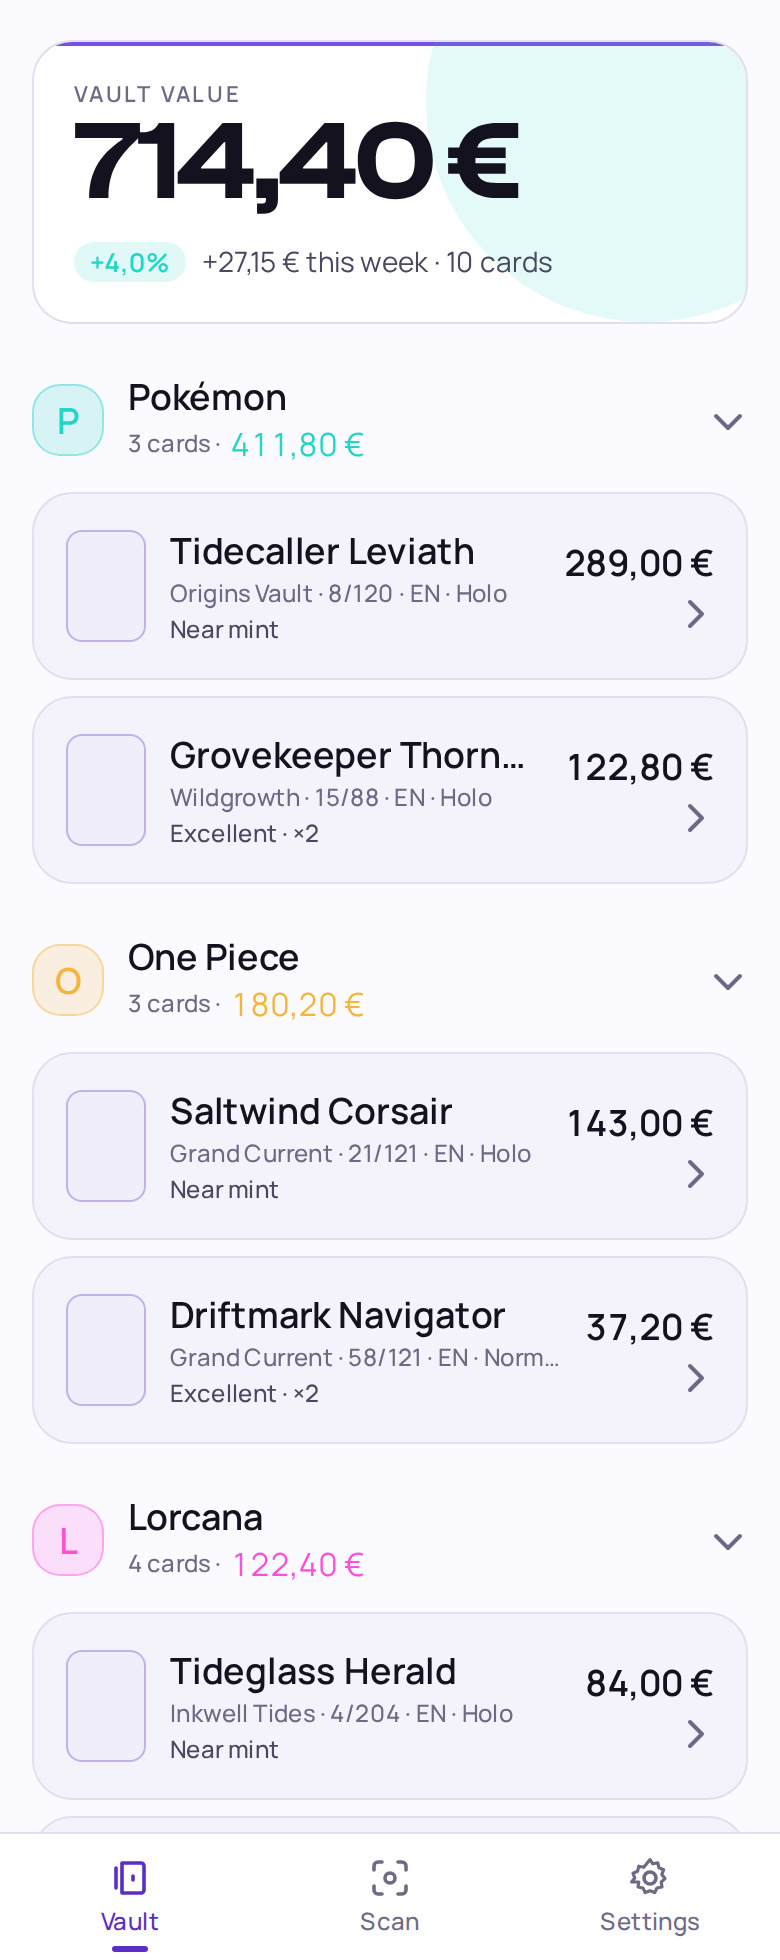
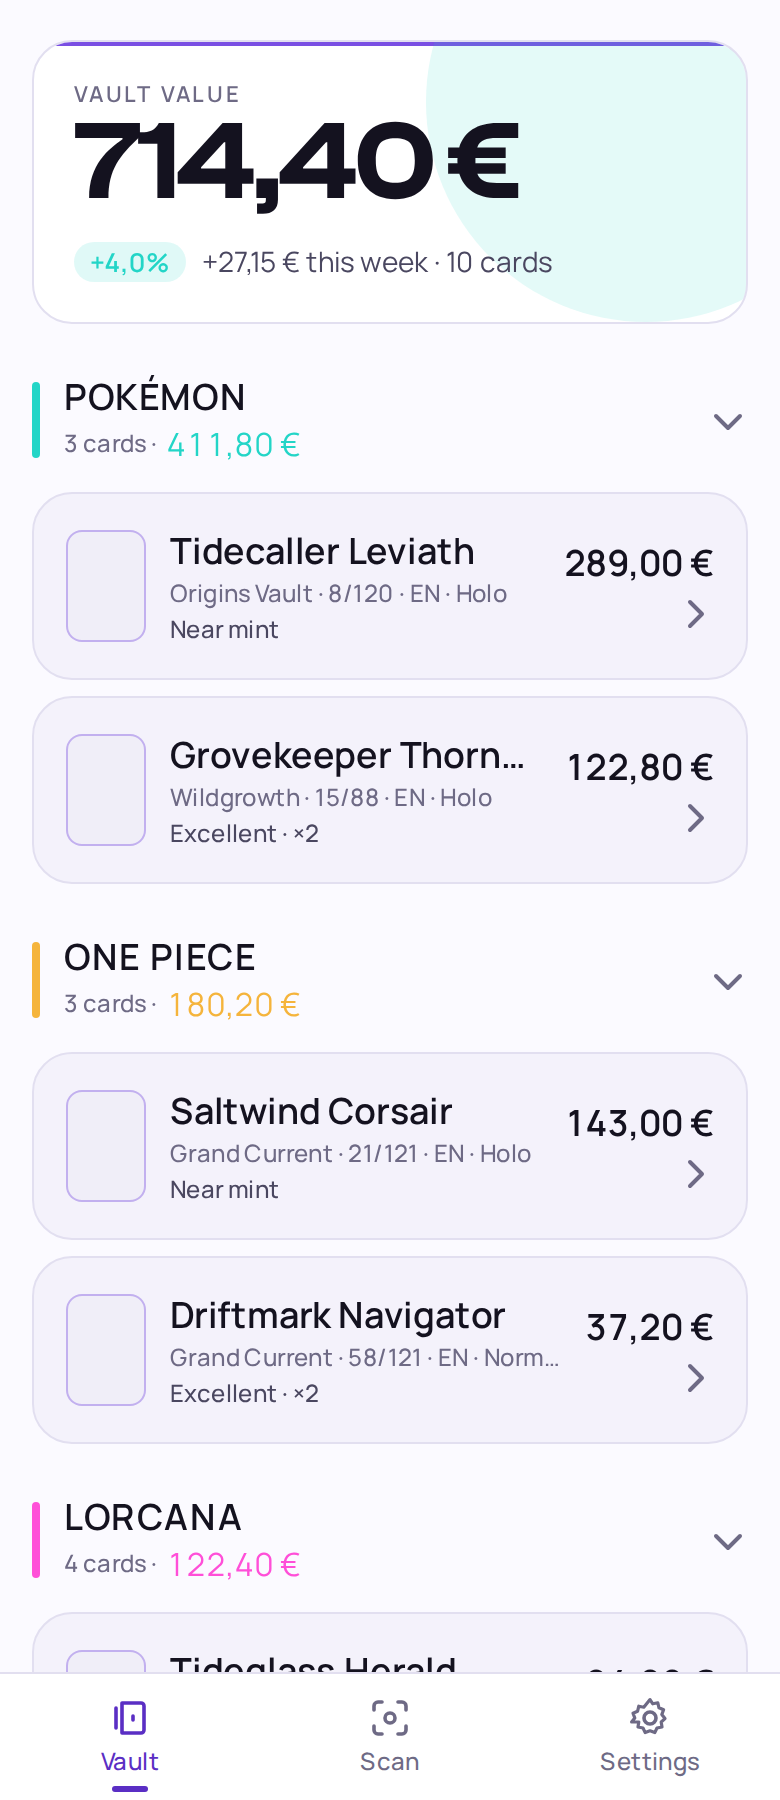
Vault game headers: drop letter glyphs for a slim accent rail + uppercase titles
Founder feedback: the P/O/L letter badges read like cheap fallback avatars (and we can't use
official game logos). Replaced with a slim rounded accent-colour rail per game — keeps the
colour identity for quick scanning, no fake letters, no logos. Also uppercased the category
title (textTransform, proper-case kept for screen readers) so a game header is clearly
distinct from the title-case card names below it. Verified light + dark, 0 errors. tsc 0, 156 tests.

diff --git a/apps/mobile/src/screens/vault/GameGlyph.tsx b/apps/mobile/src/screens/vault/GameGlyph.tsx
@@ -1,50 +1,31 @@
 import { StyleSheet, View } from "react-native";
 
-import { Text } from "@/components";
 import type { GameDisplay } from "@/api";
 import { useTheme } from "@/theme";
-import { withAlpha } from "@/theme/color";
 
 type Props = {
   game: GameDisplay;
-  size?: number;
 };
 
-// A game's section mark: a rounded chip in the game's brand accent carrying its initial.
-// Deliberately generic — an original tint-and-letter badge, never the game's official
-// logo. The accent is a theme brand-color *key*, so the chip resolves against the active
-// scheme and reads in both light and dark. Decorative: the game name beside it carries
-// the meaning for a screen reader.
-export function GameGlyph({ game, size = 36 }: Props) {
+// A game section's mark: a slim rounded rail in the game's accent colour — a clean colour
+// tag that identifies the game at a glance, without a fake letter avatar or the game's
+// (IP-protected) logo. Decorative; the game name beside it carries the meaning for a
+// screen reader.
+export function GameGlyph({ game }: Props) {
   const theme = useTheme();
-  const accent = theme.color[game.accent];
-
   return (
     <View
       accessibilityElementsHidden
       importantForAccessibility="no"
-      style={[
-        styles.chip,
-        {
-          width: size,
-          height: size,
-          borderRadius: theme.radius.md,
-          backgroundColor: withAlpha(accent, 0.16),
-          borderColor: withAlpha(accent, 0.4),
-        },
-      ]}
-    >
-      <Text variant="titleMd" style={{ color: accent }}>
-        {game.initial}
-      </Text>
-    </View>
+      style={[styles.rail, { backgroundColor: theme.color[game.accent] }]}
+    />
   );
 }
 
 const styles = StyleSheet.create({
-  chip: {
-    alignItems: "center",
-    justifyContent: "center",
-    borderWidth: StyleSheet.hairlineWidth,
+  rail: {
+    width: 4,
+    height: 38,
+    borderRadius: 2,
   },
 });

diff --git a/apps/mobile/src/screens/vault/GameSection.tsx b/apps/mobile/src/screens/vault/GameSection.tsx
@@ -89,7 +89,12 @@ export function GameSection({ group, children }: Props) {
       >
         <GameGlyph game={game} />
         <View style={styles.headerText}>
-          <Text variant="titleMd" tone="primary" numberOfLines={1}>
+          <Text
+            variant="titleMd"
+            tone="primary"
+            numberOfLines={1}
+            style={{ textTransform: "uppercase", letterSpacing: 0.8 }}
+          >
             {game.name}
           </Text>
           <View style={[styles.subtotal, { gap: theme.space["2"] }]}>
